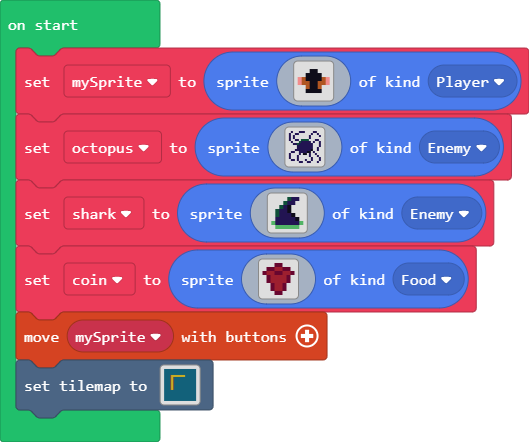
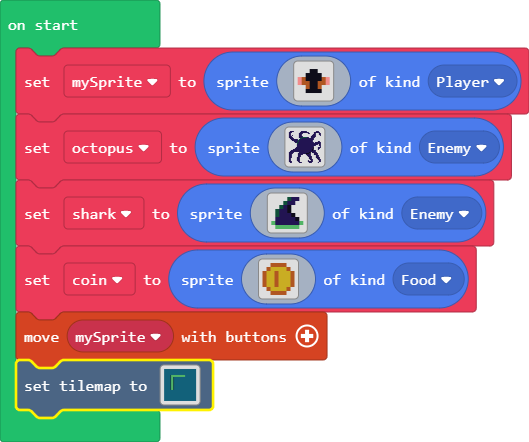
Working on visual assets

diff --git a/main.ts b/main.ts
@@ -31,36 +31,36 @@ b e e b b b e b
 `
     //% blockIdentity=images._tile
     export const tile3 = img`
-b e d 4 4 4 4 4 
-b e d 4 4 4 4 4 
-b e d 4 4 4 4 4 
-b e d 4 4 4 4 4 
-b e d 4 4 4 4 4 
-b e d 4 4 4 4 4 
-b e d 4 4 4 4 4 
-b e d 4 4 4 4 4 
+b e d 8 8 8 8 8 
+b e d 8 8 8 8 8 
+b e d 8 8 8 8 8 
+b e d 8 8 8 8 8 
+b e d 8 8 8 8 8 
+b e d 8 8 8 8 8 
+b e d 8 8 8 8 8 
+b e d 8 8 8 8 8 
 `
     //% blockIdentity=images._tile
     export const tile4 = img`
-5 5 5 5 5 5 5 5 
-5 5 5 5 5 5 5 5 
-5 5 5 5 5 5 5 5 
-5 5 5 5 5 5 5 5 
-5 5 5 5 5 5 5 5 
-5 5 5 5 5 5 5 5 
-5 5 5 5 5 5 5 5 
-5 5 5 5 5 5 5 5 
+7 7 7 7 7 7 7 7 
+7 7 7 7 7 7 7 7 
+7 7 7 7 7 7 7 7 
+7 7 7 7 7 7 7 7 
+7 7 7 7 7 7 7 7 
+7 7 7 7 7 7 7 7 
+7 7 7 7 7 7 7 7 
+7 7 7 7 7 7 7 7 
 `
     //% blockIdentity=images._tile
     export const tile5 = img`
-4 4 4 4 4 d e b 
-4 4 4 4 4 d e b 
-4 4 4 4 4 d e b 
-4 4 4 4 4 d e b 
-4 4 4 4 4 d e b 
-4 4 4 4 4 d e b 
-4 4 4 4 4 d e b 
-4 4 4 4 4 d e b 
+8 8 8 8 8 d e b 
+8 8 8 8 8 d e b 
+8 8 8 8 8 d e b 
+8 8 8 8 8 d e b 
+8 8 8 8 8 d e b 
+8 8 8 8 8 d e b 
+8 8 8 8 8 d e b 
+8 8 8 8 8 d e b 
 `
 }
 let mySprite = sprites.create(img`
@@ -74,22 +74,38 @@ let mySprite = sprites.create(img`
 . . . . . . . . 
 `, SpriteKind.Player)
 let octopus = sprites.create(img`
-. d . . . d d d . . . . d d . . 
-d . . d d . . . . . . d . . d . 
-d . d . . . . . . . d . . . . d 
-d . d . . . . . . . d . . . . . 
-d . . d d . 8 8 8 8 . . . d d . 
-. d . . . 8 d d d d d . d . . d 
-. . d d 8 d d d d d d d . . . d 
-. . . . d d d d d d d d . . . d 
-. . . . d d d d d d d d . . d . 
-. . . d d d d d d d d 1 . . d . 
-. d d . . d d d d 1 1 . d . . . 
-d . . . . d . 1 1 . d . . d . . 
-d . . . d . . . . . d . . . d . 
-d . . . d . . . . . . d . . . d 
-. d d . d . . . d . . d . . . d 
-. . . . . d d . . d d . . . d . 
+. d d d d . . . . . . . d d d d d d . . . . . . . . . d d d . . 
+d d d . . . . . . . . d d d d d d d d d . . . . . d d d d d d . 
+d d . . . . . . . . d d d d . . . . . d d . . . . d d . . . d d 
+d d . . . . . . . . d d d . . . . . . . . . . . d d d . . . d d 
+d d . d . . . . . . d d d . . . . . . . . . . d d d d . . . . d 
+d d d . . . . . . . d d d d . . . . . . . . d d d d d . . . . . 
+d d d d . . . . . . d d d 8 8 8 8 8 d d . . d d d d . . . . . . 
+. d d d d . . . . . . 8 8 d d d d d d d d d d d d . . . . . . . 
+. . d d d d d d d . 8 d d d d d d d d d d d d d d . . . . . . . 
+. . . d d d d d d 8 d d d d d d d d d d d d d d . . . . . . . . 
+. . . . . d d d d 8 d d d d d d d d d d d d d d . . . . . d d . 
+. . . . . . d d 8 d d d d d d d d d d d d d d d d . d d d d d d 
+. . . . . . . . 8 d d d d d d d d d d d d d d d d d d d d d d d 
+. . . . . . . . d d d d d d d d d d d d d d d d d d d d d . d d 
+. . . . . . . . d d d d d d d d d d d d d d d d d d d . . . d d 
+. . . . . . . . d d d d d d d d d d d d d d d d d . . . . . . d 
+. . . . . . . d d d d d d d d d d d d d d d d d 1 . . . . d d d 
+. . . . . . d d d d d d d d d d d d d d d d d d 1 . . . . d d . 
+. . . . d d d d d d d d d d d d d d d d d d d 1 d . . . . d . . 
+. . d d d d d d d d d d d d d d d d d d d d d 1 d d d . . . . . 
+. d d d d d d d d d d d d d d d d d d d d d d d d d d . . . . . 
+d d d d d . . . . . d d d d d d d d d d 1 1 . d d d d d . . . . 
+d d d d . . . . . d d d d d d d d 1 1 1 d d . . . d d d d . . . 
+d d d . . . . . . d d d d d . . . d d d d d . . . d d d d . . . 
+d d d . . . . . . d d d . . . . . . d d d d . . . . . d d d . . 
+d d d . . . . . . d d d . . . . . . . d d d d . . . . d d d . . 
+d d d . . . . . d d d . . . . . . . . . d d d . . . . d d d d . 
+d d . . . . . . d d d . . . . . . . . . d d d . . . . . d d d . 
+d d . . . . . . d d d . . . . . . . . . . d d d . . . . . d d d 
+d d . . . . . . d d d . . . . . . . . d . . d d . . . . . . d d 
+d d d . . . . . . d d . . . . . . . . d d d d d . . . . . . d d 
+. d d . . . . . . . d d d . . . . . . . d d d . . . . . . d . . 
 `, SpriteKind.Enemy)
 let shark = sprites.create(img`
 . . . . 8 d d . 
@@ -102,14 +118,14 @@ let shark = sprites.create(img`
 . 7 7 7 7 7 7 . 
 `, SpriteKind.Enemy)
 let coin = sprites.create(img`
-. . . 9 9 . . . 
-. 9 9 2 2 9 9 . 
-9 2 2 9 9 2 2 9 
-. 9 2 2 2 2 9 . 
-. 9 2 2 2 2 9 . 
-. . 9 2 2 9 . . 
-. . 9 2 2 9 . . 
-. . . 9 9 . . . 
+. . 4 4 4 4 . . 
+. 4 5 5 5 5 4 . 
+4 5 5 4 5 5 5 4 
+4 5 5 4 5 5 5 4 
+4 5 5 4 5 5 5 4 
+4 5 5 4 5 5 5 4 
+. 4 5 5 5 5 4 . 
+. . 4 4 4 4 . . 
 `, SpriteKind.Food)
 controller.moveSprite(mySprite)
 tiles.setTilemap(tiles.createTilemap(
